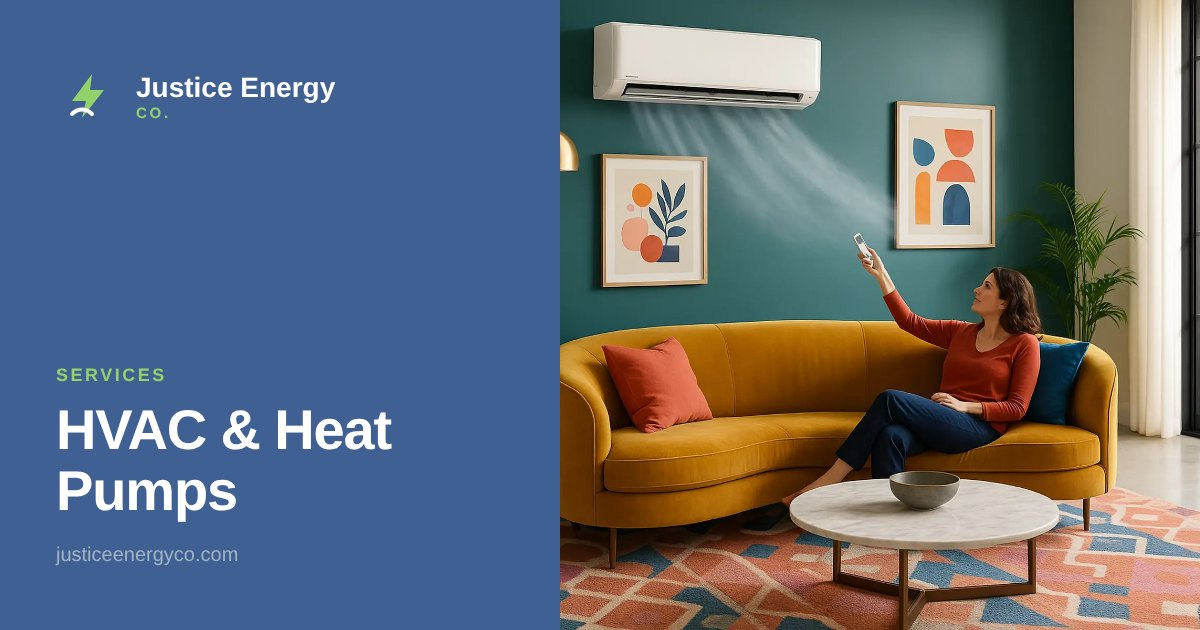
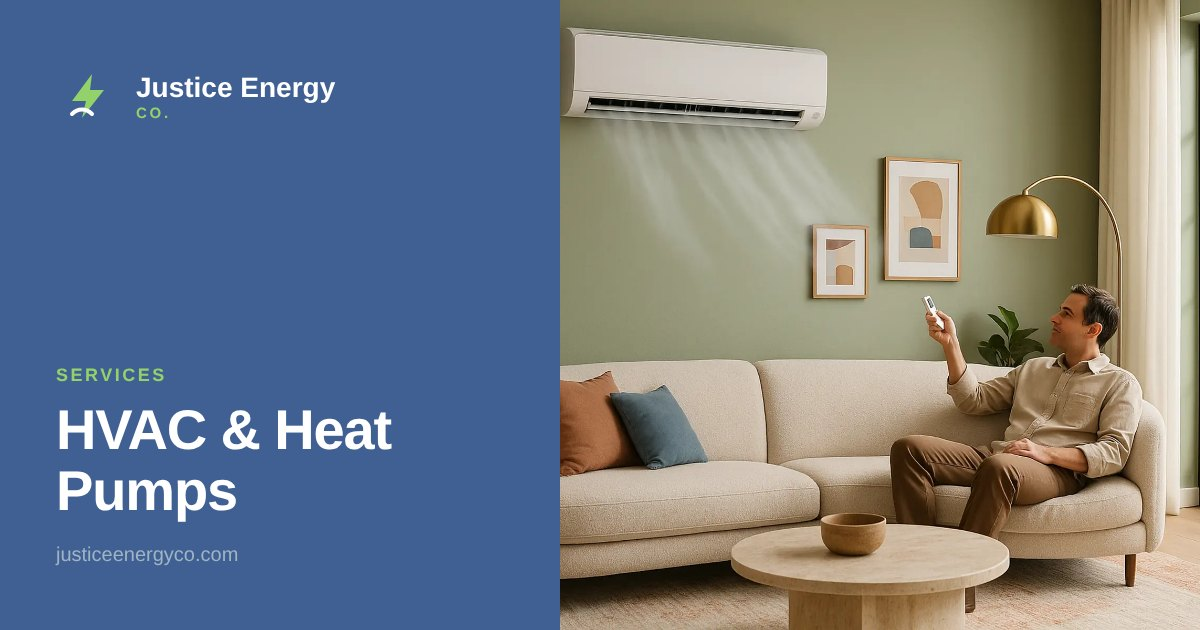
HVAC photo: subtler, mostly neutral palette
Claude-Session: https://claude.ai/code/session_01WJBbNDQLUfZvQvpC8s5baG

diff --git a/src/content/photo-prompts.js b/src/content/photo-prompts.js
@@ -29,8 +29,8 @@ module.exports = {
       alt: 'Newly installed heat pump water heater in a clean garage utility area',
     },
     hvac: {
-      prompt: 'Sleek white ductless mini-split indoor unit mounted on a deep teal-green painted accent wall in an ultra-modern, vibrant, colorful designer living room, like a high-end interior design magazine shoot: a curved velvet sofa in rich mustard yellow with coral and cobalt-blue cushions, a bold patterned rug in terracotta, pink and blue, a round marble coffee table, a brass arc floor lamp, colorful contemporary art prints, lush green plants, polished light concrete floor, floor-to-ceiling black-framed windows with bright afternoon light. Saturated, cheerful color palette. The whole mini-split unit is fully in frame with clear wall space above it. A relaxed adult sits on the sofa cushions, leaning back in the middle of the sofa (not on a bench or ottoman), pointing a small white remote control up at the mini-split and looking at the unit, which is mounted on the wall above and slightly to the side of the sofa. Cool air is clearly visible flowing out of the open louvers: soft white translucent streams of chilled mist fanning out and drifting down across the room toward the sofa, easy to see against the wall, like cold air made visible in a premium air-conditioner advertisement photo.',
-      alt: 'Homeowner on a colorful sofa adjusting a ductless mini-split with a remote as cool air flows into a modern living room',
+      prompt: 'Sleek white ductless mini-split indoor unit mounted on a soft sage-green painted wall in a modern, refined living room, like an interior design magazine shoot: a curved sofa in warm oatmeal boucle with a couple of muted terracotta and dusty-blue cushions, a low-contrast textured wool rug in cream and soft rust, a round travertine coffee table, a brass arc floor lamp, one or two framed contemporary prints in muted earthy tones, green plants, light oak floor, floor-to-ceiling black-framed windows with soft afternoon light. A calm, mostly neutral palette with a few gentle, desaturated color accents; tasteful and understated, not bright or saturated. The whole mini-split unit is fully in frame with clear wall space above it. A relaxed adult sits on the sofa cushions, leaning back in the middle of the sofa (not on a bench or ottoman), pointing a small white remote control up at the mini-split and looking at the unit, which is mounted on the wall above and slightly to the side of the sofa. Cool air is clearly visible flowing out of the open louvers: soft white translucent streams of chilled mist fanning out and drifting down across the room toward the sofa, easy to see against the wall, like cold air made visible in a premium air-conditioner advertisement photo.',
+      alt: 'Homeowner on a sofa adjusting a ductless mini-split with a remote as cool air flows into a modern living room',
       focus: 'center top', // keep the wall unit in view where the frame crops the photo
     },
     'water-conservation': {

diff --git a/dist/about/index.html b/dist/about/index.html
@@ -128,7 +128,7 @@
       <span class="text-link">Learn more <svg viewBox="0 0 24 24" fill="none" stroke="currentColor" stroke-width="2" stroke-linecap="round" stroke-linejoin="round" aria-hidden="true" focusable="false"><path d="M5 12h14M13 6l6 6-6 6"/></svg></span>
     </div>
   </article><article class="card" data-reveal>
-    <div class="card-media"><img src="/img/slot/hvac.webp" srcset="/img/slot/hvac-800.webp 800w, /img/slot/hvac.webp 1600w" sizes="(min-width: 1024px) 50vw, 100vw" alt="Homeowner on a colorful sofa adjusting a ductless mini-split with a remote as cool air flows into a modern living room" width="1600" height="1200" style="object-position: center top" loading="lazy" decoding="async"></div>
+    <div class="card-media"><img src="/img/slot/hvac.webp" srcset="/img/slot/hvac-800.webp 800w, /img/slot/hvac.webp 1600w" sizes="(min-width: 1024px) 50vw, 100vw" alt="Homeowner on a sofa adjusting a ductless mini-split with a remote as cool air flows into a modern living room" width="1600" height="1200" style="object-position: center top" loading="lazy" decoding="async"></div>
     <div class="card-body">
       <span class="ico "><svg viewBox="0 0 24 24" fill="none" stroke="currentColor" stroke-width="2" stroke-linecap="round" stroke-linejoin="round" aria-hidden="true" focusable="false"><circle cx="12" cy="12" r="2"/><path d="M12 10c0-4 1-7 4-7s3 4-2 7M14 12c4 0 7 1 7 4s-4 3-7-2M12 14c0 4-1 7-4 7s-3-4 2-7M10 12c-4 0-7-1-7-4s4-3 7 2"/></svg></span>
       <h3><a href="/services/hvac-heat-pumps/">HVAC &amp; Heat Pumps</a></h3>

diff --git a/dist/index.html b/dist/index.html
@@ -121,7 +121,7 @@
       <span class="text-link">Learn more <svg viewBox="0 0 24 24" fill="none" stroke="currentColor" stroke-width="2" stroke-linecap="round" stroke-linejoin="round" aria-hidden="true" focusable="false"><path d="M5 12h14M13 6l6 6-6 6"/></svg></span>
     </div>
   </article><article class="card" data-reveal>
-    <div class="card-media"><img src="/img/slot/hvac.webp" srcset="/img/slot/hvac-800.webp 800w, /img/slot/hvac.webp 1600w" sizes="(min-width: 1024px) 50vw, 100vw" alt="Homeowner on a colorful sofa adjusting a ductless mini-split with a remote as cool air flows into a modern living room" width="1600" height="1200" style="object-position: center top" loading="lazy" decoding="async"></div>
+    <div class="card-media"><img src="/img/slot/hvac.webp" srcset="/img/slot/hvac-800.webp 800w, /img/slot/hvac.webp 1600w" sizes="(min-width: 1024px) 50vw, 100vw" alt="Homeowner on a sofa adjusting a ductless mini-split with a remote as cool air flows into a modern living room" width="1600" height="1200" style="object-position: center top" loading="lazy" decoding="async"></div>
     <div class="card-body">
       <span class="ico "><svg viewBox="0 0 24 24" fill="none" stroke="currentColor" stroke-width="2" stroke-linecap="round" stroke-linejoin="round" aria-hidden="true" focusable="false"><circle cx="12" cy="12" r="2"/><path d="M12 10c0-4 1-7 4-7s3 4-2 7M14 12c4 0 7 1 7 4s-4 3-7-2M12 14c0 4-1 7-4 7s-3-4 2-7M10 12c-4 0-7-1-7-4s4-3 7 2"/></svg></span>
       <h3><a href="/services/hvac-heat-pumps/">HVAC &amp; Heat Pumps</a></h3>

diff --git a/dist/services/index.html b/dist/services/index.html
@@ -105,7 +105,7 @@
       <span class="text-link">Learn more <svg viewBox="0 0 24 24" fill="none" stroke="currentColor" stroke-width="2" stroke-linecap="round" stroke-linejoin="round" aria-hidden="true" focusable="false"><path d="M5 12h14M13 6l6 6-6 6"/></svg></span>
     </div>
   </article><article class="card" data-reveal>
-    <div class="card-media"><img src="/img/slot/hvac.webp" srcset="/img/slot/hvac-800.webp 800w, /img/slot/hvac.webp 1600w" sizes="(min-width: 1024px) 50vw, 100vw" alt="Homeowner on a colorful sofa adjusting a ductless mini-split with a remote as cool air flows into a modern living room" width="1600" height="1200" style="object-position: center top" loading="lazy" decoding="async"></div>
+    <div class="card-media"><img src="/img/slot/hvac.webp" srcset="/img/slot/hvac-800.webp 800w, /img/slot/hvac.webp 1600w" sizes="(min-width: 1024px) 50vw, 100vw" alt="Homeowner on a sofa adjusting a ductless mini-split with a remote as cool air flows into a modern living room" width="1600" height="1200" style="object-position: center top" loading="lazy" decoding="async"></div>
     <div class="card-body">
       <span class="ico "><svg viewBox="0 0 24 24" fill="none" stroke="currentColor" stroke-width="2" stroke-linecap="round" stroke-linejoin="round" aria-hidden="true" focusable="false"><circle cx="12" cy="12" r="2"/><path d="M12 10c0-4 1-7 4-7s3 4-2 7M14 12c4 0 7 1 7 4s-4 3-7-2M12 14c0 4-1 7-4 7s-3-4 2-7M10 12c-4 0-7-1-7-4s4-3 7 2"/></svg></span>
       <h2><a href="/services/hvac-heat-pumps/">HVAC &amp; Heat Pumps</a></h2>

diff --git a/dist/services/led-lighting-retrofits/index.html b/dist/services/led-lighting-retrofits/index.html
@@ -161,7 +161,7 @@
       <span class="text-link">Learn more <svg viewBox="0 0 24 24" fill="none" stroke="currentColor" stroke-width="2" stroke-linecap="round" stroke-linejoin="round" aria-hidden="true" focusable="false"><path d="M5 12h14M13 6l6 6-6 6"/></svg></span>
     </div>
   </article><article class="card" data-reveal>
-    <div class="card-media"><img src="/img/slot/hvac.webp" srcset="/img/slot/hvac-800.webp 800w, /img/slot/hvac.webp 1600w" sizes="(min-width: 1024px) 50vw, 100vw" alt="Homeowner on a colorful sofa adjusting a ductless mini-split with a remote as cool air flows into a modern living room" width="1600" height="1200" style="object-position: center top" loading="lazy" decoding="async"></div>
+    <div class="card-media"><img src="/img/slot/hvac.webp" srcset="/img/slot/hvac-800.webp 800w, /img/slot/hvac.webp 1600w" sizes="(min-width: 1024px) 50vw, 100vw" alt="Homeowner on a sofa adjusting a ductless mini-split with a remote as cool air flows into a modern living room" width="1600" height="1200" style="object-position: center top" loading="lazy" decoding="async"></div>
     <div class="card-body">
       <span class="ico "><svg viewBox="0 0 24 24" fill="none" stroke="currentColor" stroke-width="2" stroke-linecap="round" stroke-linejoin="round" aria-hidden="true" focusable="false"><circle cx="12" cy="12" r="2"/><path d="M12 10c0-4 1-7 4-7s3 4-2 7M14 12c4 0 7 1 7 4s-4 3-7-2M12 14c0 4-1 7-4 7s-3-4 2-7M10 12c-4 0-7-1-7-4s4-3 7 2"/></svg></span>
       <h3><a href="/services/hvac-heat-pumps/">HVAC &amp; Heat Pumps</a></h3>

diff --git a/dist/services/turf-replacement/index.html b/dist/services/turf-replacement/index.html
@@ -161,7 +161,7 @@
       <span class="text-link">Learn more <svg viewBox="0 0 24 24" fill="none" stroke="currentColor" stroke-width="2" stroke-linecap="round" stroke-linejoin="round" aria-hidden="true" focusable="false"><path d="M5 12h14M13 6l6 6-6 6"/></svg></span>
     </div>
   </article><article class="card" data-reveal>
-    <div class="card-media"><img src="/img/slot/hvac.webp" srcset="/img/slot/hvac-800.webp 800w, /img/slot/hvac.webp 1600w" sizes="(min-width: 1024px) 50vw, 100vw" alt="Homeowner on a colorful sofa adjusting a ductless mini-split with a remote as cool air flows into a modern living room" width="1600" height="1200" style="object-position: center top" loading="lazy" decoding="async"></div>
+    <div class="card-media"><img src="/img/slot/hvac.webp" srcset="/img/slot/hvac-800.webp 800w, /img/slot/hvac.webp 1600w" sizes="(min-width: 1024px) 50vw, 100vw" alt="Homeowner on a sofa adjusting a ductless mini-split with a remote as cool air flows into a modern living room" width="1600" height="1200" style="object-position: center top" loading="lazy" decoding="async"></div>
     <div class="card-body">
       <span class="ico "><svg viewBox="0 0 24 24" fill="none" stroke="currentColor" stroke-width="2" stroke-linecap="round" stroke-linejoin="round" aria-hidden="true" focusable="false"><circle cx="12" cy="12" r="2"/><path d="M12 10c0-4 1-7 4-7s3 4-2 7M14 12c4 0 7 1 7 4s-4 3-7-2M12 14c0 4-1 7-4 7s-3-4 2-7M10 12c-4 0-7-1-7-4s4-3 7 2"/></svg></span>
       <h3><a href="/services/hvac-heat-pumps/">HVAC &amp; Heat Pumps</a></h3>

diff --git a/dist/services/water-conservation/index.html b/dist/services/water-conservation/index.html
@@ -161,7 +161,7 @@
       <span class="text-link">Learn more <svg viewBox="0 0 24 24" fill="none" stroke="currentColor" stroke-width="2" stroke-linecap="round" stroke-linejoin="round" aria-hidden="true" focusable="false"><path d="M5 12h14M13 6l6 6-6 6"/></svg></span>
     </div>
   </article><article class="card" data-reveal>
-    <div class="card-media"><img src="/img/slot/hvac.webp" srcset="/img/slot/hvac-800.webp 800w, /img/slot/hvac.webp 1600w" sizes="(min-width: 1024px) 50vw, 100vw" alt="Homeowner on a colorful sofa adjusting a ductless mini-split with a remote as cool air flows into a modern living room" width="1600" height="1200" style="object-position: center top" loading="lazy" decoding="async"></div>
+    <div class="card-media"><img src="/img/slot/hvac.webp" srcset="/img/slot/hvac-800.webp 800w, /img/slot/hvac.webp 1600w" sizes="(min-width: 1024px) 50vw, 100vw" alt="Homeowner on a sofa adjusting a ductless mini-split with a remote as cool air flows into a modern living room" width="1600" height="1200" style="object-position: center top" loading="lazy" decoding="async"></div>
     <div class="card-body">
       <span class="ico "><svg viewBox="0 0 24 24" fill="none" stroke="currentColor" stroke-width="2" stroke-linecap="round" stroke-linejoin="round" aria-hidden="true" focusable="false"><circle cx="12" cy="12" r="2"/><path d="M12 10c0-4 1-7 4-7s3 4-2 7M14 12c4 0 7 1 7 4s-4 3-7-2M12 14c0 4-1 7-4 7s-3-4 2-7M10 12c-4 0-7-1-7-4s4-3 7 2"/></svg></span>
       <h3><a href="/services/hvac-heat-pumps/">HVAC &amp; Heat Pumps</a></h3>

diff --git a/dist/services/hvac-heat-pumps/index.html b/dist/services/hvac-heat-pumps/index.html
@@ -85,7 +85,7 @@
   </div>
         <ul class="hero-points"><li><svg viewBox="0 0 24 24" fill="none" stroke="currentColor" stroke-width="2" stroke-linecap="round" stroke-linejoin="round" aria-hidden="true" focusable="false"><path d="m5 12 5 5 9-10"/></svg>One system for both heating and cooling</li><li><svg viewBox="0 0 24 24" fill="none" stroke="currentColor" stroke-width="2" stroke-linecap="round" stroke-linejoin="round" aria-hidden="true" focusable="false"><path d="m5 12 5 5 9-10"/></svg>High-efficiency electric operation with no on-site combustion</li></ul>
       </div>
-      <div class="hero-media"><div class="frame"><img src="/img/slot/hvac.webp" srcset="/img/slot/hvac-800.webp 800w, /img/slot/hvac.webp 1600w" sizes="(min-width: 1024px) 50vw, 100vw" alt="Homeowner on a colorful sofa adjusting a ductless mini-split with a remote as cool air flows into a modern living room" width="1600" height="1200" style="object-position: center top" fetchpriority="high" decoding="async"></div></div>
+      <div class="hero-media"><div class="frame"><img src="/img/slot/hvac.webp" srcset="/img/slot/hvac-800.webp 800w, /img/slot/hvac.webp 1600w" sizes="(min-width: 1024px) 50vw, 100vw" alt="Homeowner on a sofa adjusting a ductless mini-split with a remote as cool air flows into a modern living room" width="1600" height="1200" style="object-position: center top" fetchpriority="high" decoding="async"></div></div>
     </div>
   </div>
 </section>

diff --git a/dist/services/water-heating/index.html b/dist/services/water-heating/index.html
@@ -153,7 +153,7 @@
     
   </div>
     <div class="cards"><article class="card" data-reveal>
-    <div class="card-media"><img src="/img/slot/hvac.webp" srcset="/img/slot/hvac-800.webp 800w, /img/slot/hvac.webp 1600w" sizes="(min-width: 1024px) 50vw, 100vw" alt="Homeowner on a colorful sofa adjusting a ductless mini-split with a remote as cool air flows into a modern living room" width="1600" height="1200" style="object-position: center top" loading="lazy" decoding="async"></div>
+    <div class="card-media"><img src="/img/slot/hvac.webp" srcset="/img/slot/hvac-800.webp 800w, /img/slot/hvac.webp 1600w" sizes="(min-width: 1024px) 50vw, 100vw" alt="Homeowner on a sofa adjusting a ductless mini-split with a remote as cool air flows into a modern living room" width="1600" height="1200" style="object-position: center top" loading="lazy" decoding="async"></div>
     <div class="card-body">
       <span class="ico "><svg viewBox="0 0 24 24" fill="none" stroke="currentColor" stroke-width="2" stroke-linecap="round" stroke-linejoin="round" aria-hidden="true" focusable="false"><circle cx="12" cy="12" r="2"/><path d="M12 10c0-4 1-7 4-7s3 4-2 7M14 12c4 0 7 1 7 4s-4 3-7-2M12 14c0 4-1 7-4 7s-3-4 2-7M10 12c-4 0-7-1-7-4s4-3 7 2"/></svg></span>
       <h3><a href="/services/hvac-heat-pumps/">HVAC &amp; Heat Pumps</a></h3>
